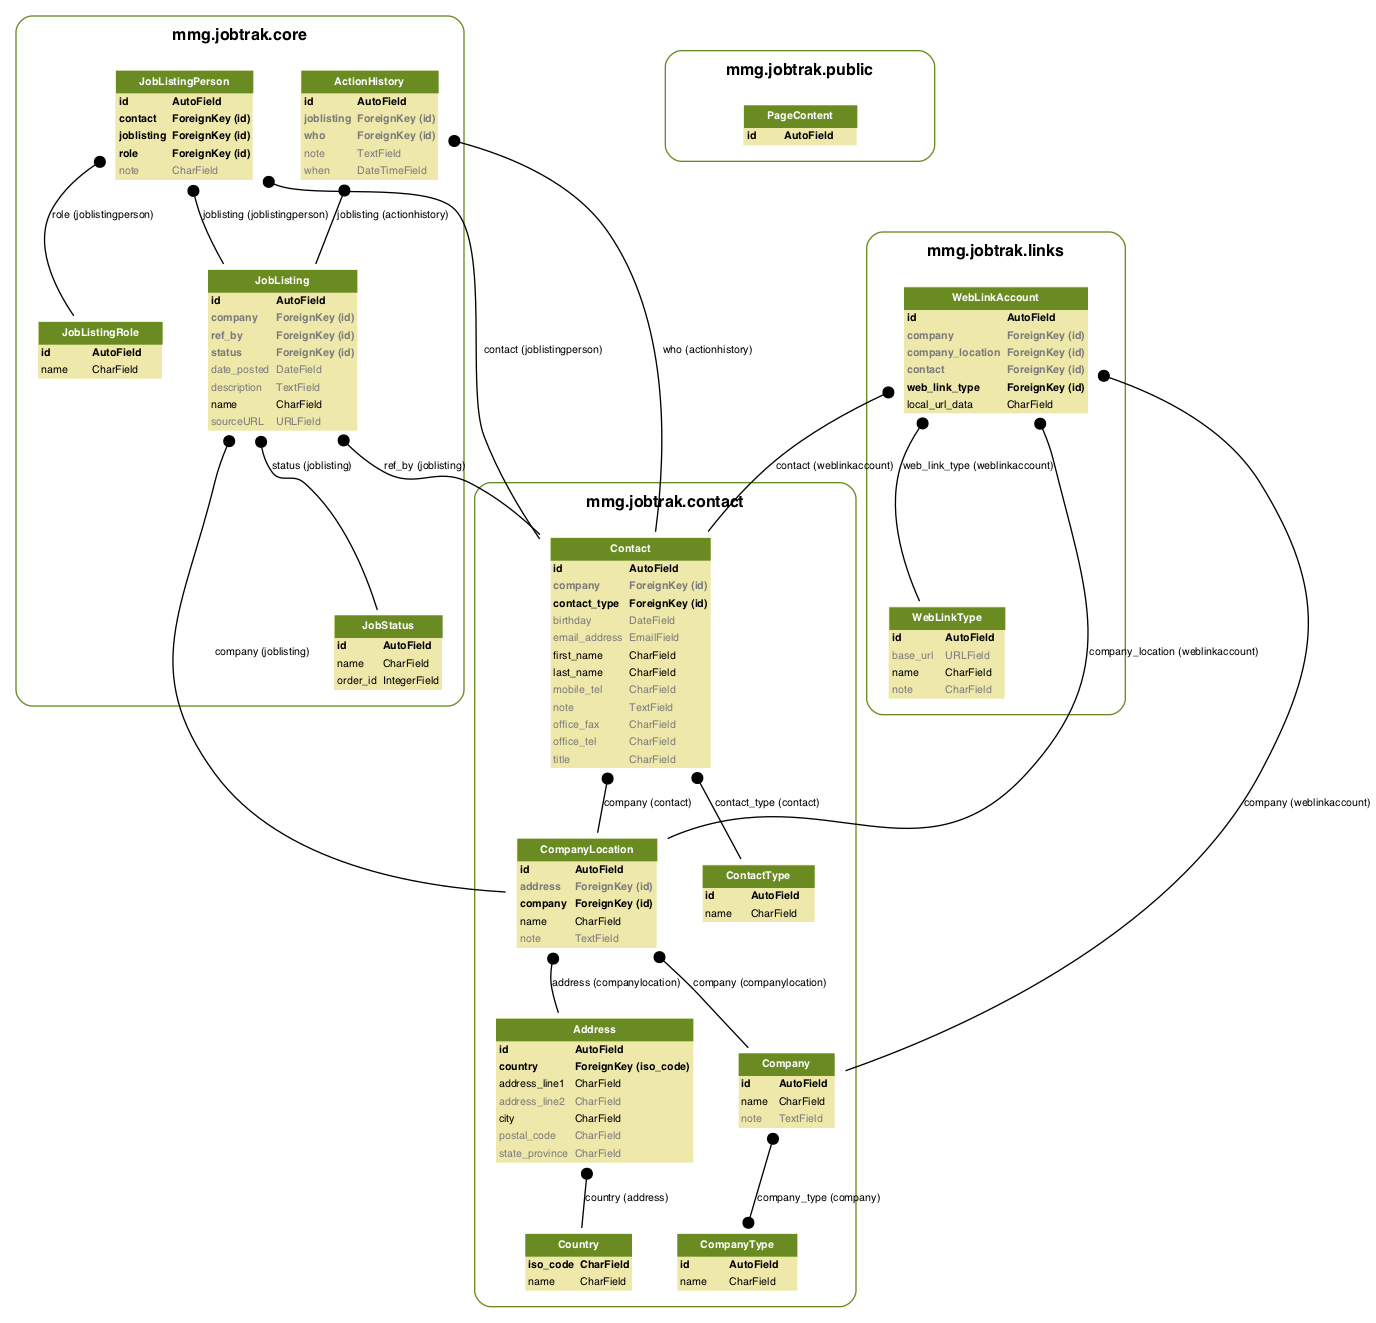
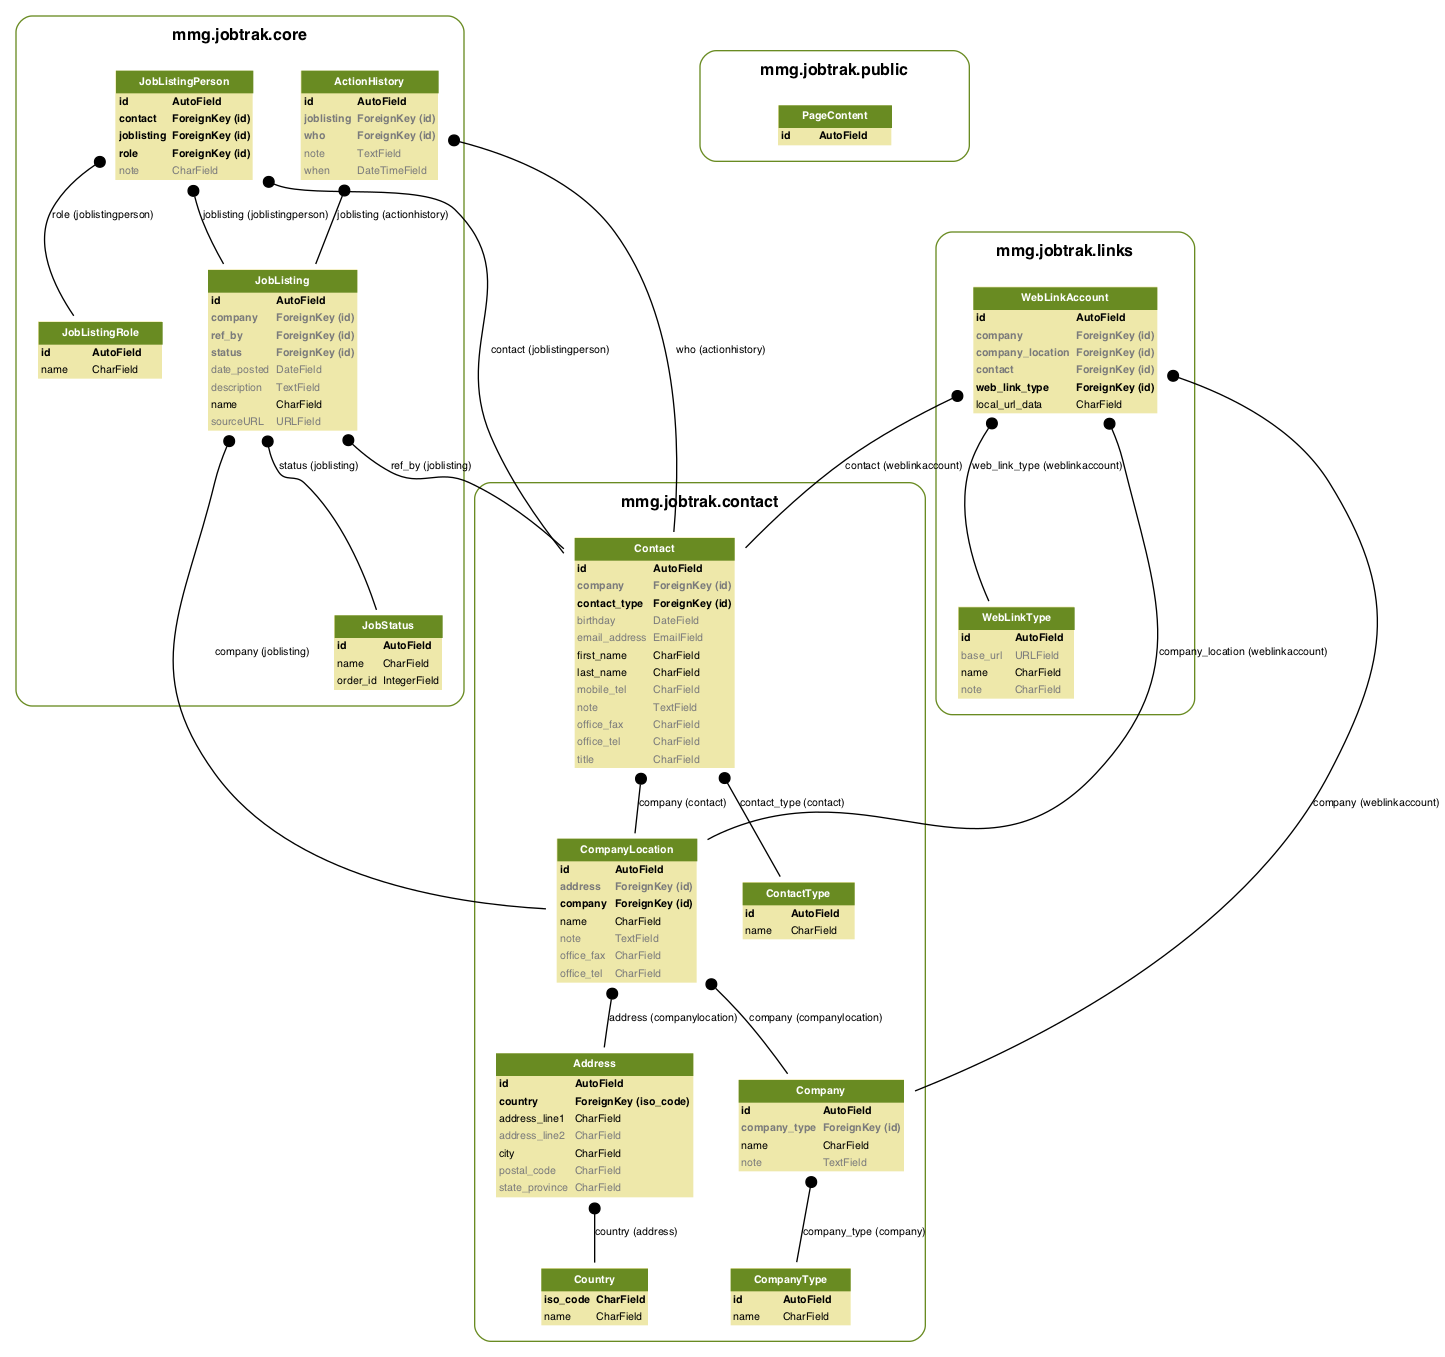
Lots of cleanup.

diff --git a/src/mmg/jobtrak/contact/models.py b/src/mmg/jobtrak/contact/models.py
@@ -2,7 +2,7 @@ from django.db import models
 from datetime import datetime
 from django.core.validators import RegexValidator
 from pprint import pprint
-from django.contrib.humanize.templatetags.humanize import naturaltime, ordinal, intcomma, naturalday 
+from django.contrib.humanize.templatetags.humanize import naturaltime, ordinal, intcomma, naturalday
 
 class Country(models.Model):
     """Model for countries"""
@@ -13,7 +13,7 @@ class Country(models.Model):
         ordering=["name", "iso_code"]
     def __unicode__(self):
         return self.name
-        
+
 class Address(models.Model):
     """Model to store addresses for accounts"""
     address_line1=models.CharField("Address line 1", max_length=45)
@@ -42,26 +42,30 @@ class CompanyType(models.Model):
         verbose_name_plural='Company Types'
     def __unicode__(self):
         return self.name
-        
-        
+
+
 class Company(models.Model):
     """(Modelname description)"""
     id=models.AutoField(primary_key=True)
     name=models.CharField(max_length=128)
     note=models.TextField(blank=True, null=True)
-    company_type=models.ManyToManyField(CompanyType, blank=True, null=True)
+    company_type=models.ForeignKey(CompanyType, blank=True, null=True)
     class Meta:
         verbose_name='Company'
         verbose_name_plural='Companies'
     def __unicode__(self):
         return self.name
-        
-        
+
+
 class CompanyLocation(models.Model):
     id=models.AutoField(primary_key=True)
     name=models.CharField(max_length=128)
     company=models.ForeignKey('Company', null=True)
     address=models.ForeignKey('Address', null=True, blank=True)
+    phone_regex=RegexValidator(regex=r'^\+?1?\d{9,15}$',
+        message="Phone number must be entered in the format: '+999999999'. Up to 15 digits allowed.")
+    office_tel=models.CharField(validators=[phone_regex], max_length=15, blank=True, verbose_name="Office Phone")
+    office_fax=models.CharField(validators=[phone_regex], max_length=15, blank=True, verbose_name="Office Fax")
     note=models.TextField(blank=True, null=True)
     class Meta:
         verbose_name='Company Location'
@@ -90,9 +94,9 @@ class Contact(models.Model):
     title=models.CharField(max_length=128, blank=True, null=True)
     company=models.ForeignKey(CompanyLocation, blank=True, null=True)
     email_address=models.EmailField(blank=True)
-    phone_regex=RegexValidator(regex=r'^\+?1?\d{9,15}$', 
+    phone_regex=RegexValidator(regex=r'^\+?1?\d{9,15}$',
         message="Phone number must be entered in the format: '+999999999'. Up to 15 digits allowed.")
-    office_tel=models.CharField(validators=[phone_regex], max_length=15, blank=True, verbose_name="Office Phone") 
+    office_tel=models.CharField(validators=[phone_regex], max_length=15, blank=True, verbose_name="Office Phone")
     mobile_tel=models.CharField(validators=[phone_regex], max_length=15, blank=True, verbose_name="Mobile Phone")
     office_fax=models.CharField(validators=[phone_regex], max_length=15, blank=True, verbose_name="Office Fax")
     birthday=models.DateField(blank=True, null=True)
@@ -107,7 +111,7 @@ class Contact(models.Model):
     def get_name_firstlast(self):
         return ' '.join([self.first_name,self.last_name])
     get_name_firstlast.short_description='Full Name'
-    
+
     def get_last_contact(self):
         try:
             obj=ActionHistory.objects.filter(who_id__exact=self.id).latest()
@@ -116,6 +120,6 @@ class Contact(models.Model):
             rv=u'Never'
         return rv
     get_last_contact.short_description='Last Contact'
-        
+
     def __unicode__(self):
         return ' '.join([self.company.company.name, u'-', self.company.name, u'-',self.first_name, self.last_name])

diff --git a/src/mmg/jobtrak/core/admin.py b/src/mmg/jobtrak/core/admin.py
@@ -7,7 +7,7 @@ from mmg.jobtrak.core.models import *
 class CompanyLocationAdmin(admin.ModelAdmin):
     list_display=('name','company','note')
     list_filter=['company']
-    
+
 class CompanyLocationInline(admin.TabularInline):
     model=CompanyLocation
     extra=1
@@ -26,12 +26,12 @@ class WebLinkForCompanyLocationInline(admin.TabularInline):
     model=WebLinkAccount
     extra=1
     exclude=('contact','company')
-    
+
 class JobStatusAdmin(admin.ModelAdmin):
     list_display=['order_id','name','get_num_jobs']
-    
+
 class CompanyAdmin(admin.ModelAdmin):
-    list_display=['name','note']
+    list_display=['name','company_type','note']
     fieldsets=[
         (None, {'fields': ['name','note','company_type']}),
     ]
@@ -44,16 +44,16 @@ class CompanyAdmin(admin.ModelAdmin):
 class ContactHistoryInline(admin.TabularInline):
     model=ActionHistory
     extra=1
-    
+
 class ContactAdmin(admin.ModelAdmin):
     list_display=('get_name_lastfirst','company','title','contact_type','get_last_contact')
     list_filter=['company__company','contact_type']
     fieldsets=[
         (None, {
-            'fields': 
+            'fields':
                 ['first_name','last_name','title','company','contact_type','birthday','note']}),
         ('Contact', {
-            'fields': 
+            'fields':
                 ['email_address','office_tel','mobile_tel','office_fax']}),
     ]
     inlines=[WebLinkForContactInline, ContactHistoryInline]
@@ -86,14 +86,14 @@ class JobListingHistoryInline(admin.TabularInline):
 #                 print "[NO]"
 #                 field.queryset = field.queryset.none()
 #         return field
-    
+
 class JobListingAdmin(admin.ModelAdmin):
     list_display=('name','company','date_posted')
     list_filter=['company__company']
     fieldsets=[
         (None, {
             'fields':
-                ['name','company','date_posted','status','description']
+                ['name','company','date_posted','status','description','sourceURL']
         }),
     ]
 #    inlines=[JobListingHistoryInline]
@@ -101,8 +101,8 @@ class JobListingAdmin(admin.ModelAdmin):
     # def get_form(self, request, obj=None, **kwargs):
     #    request._obj_ = obj
     #    return super(JobListingAdmin, self).get_form(request, obj, **kwargs)
-        
-    
+
+
 
 # class LimitedAdminInlineMixin(object):
 #     """
@@ -170,8 +170,8 @@ class JobListingAdmin(admin.ModelAdmin):
 #         """
 #         return getattr(self, 'filters', ())
 #
-#           
-    
+#
+
 
 JobTrakAdmin.register(Company, CompanyAdmin)
 JobTrakAdmin.register(ContactType)
@@ -188,4 +188,3 @@ JobTrakAdmin.register(JobStatus, JobStatusAdmin)
 JobTrakAdmin.register(JobListing, JobListingAdmin)
 JobTrakAdmin.register(JobListingRole)
 JobTrakAdmin.register(JobListingPerson)
-

diff --git a/src/mmg/jobtrak/core/apps.py b/src/mmg/jobtrak/core/apps.py
@@ -1,8 +1,8 @@
 from django.apps import AppConfig
 from django.utils.translation import ugettext, ugettext_lazy
 
-class LocalConfig(AppConfig):    
+class LocalConfig(AppConfig):
     name="mmg.jobtrak.core"
     # Translators: Admin Backend - Name of Core app (appears in the header bar)
     verbose_name=ugettext_lazy("Core")
-    
+     

diff --git a/src/JobTrak/settings.py b/src/JobTrak/settings.py
@@ -38,6 +38,7 @@ INSTALLED_APPS = (
     'mmg.jobtrak.links',
     'mmg.jobtrak.cms',
     'mmg.jobtrak.public',
+    'mmg.jobtrak.profile',
     'mmg.jobtrak.help',
 )
 
